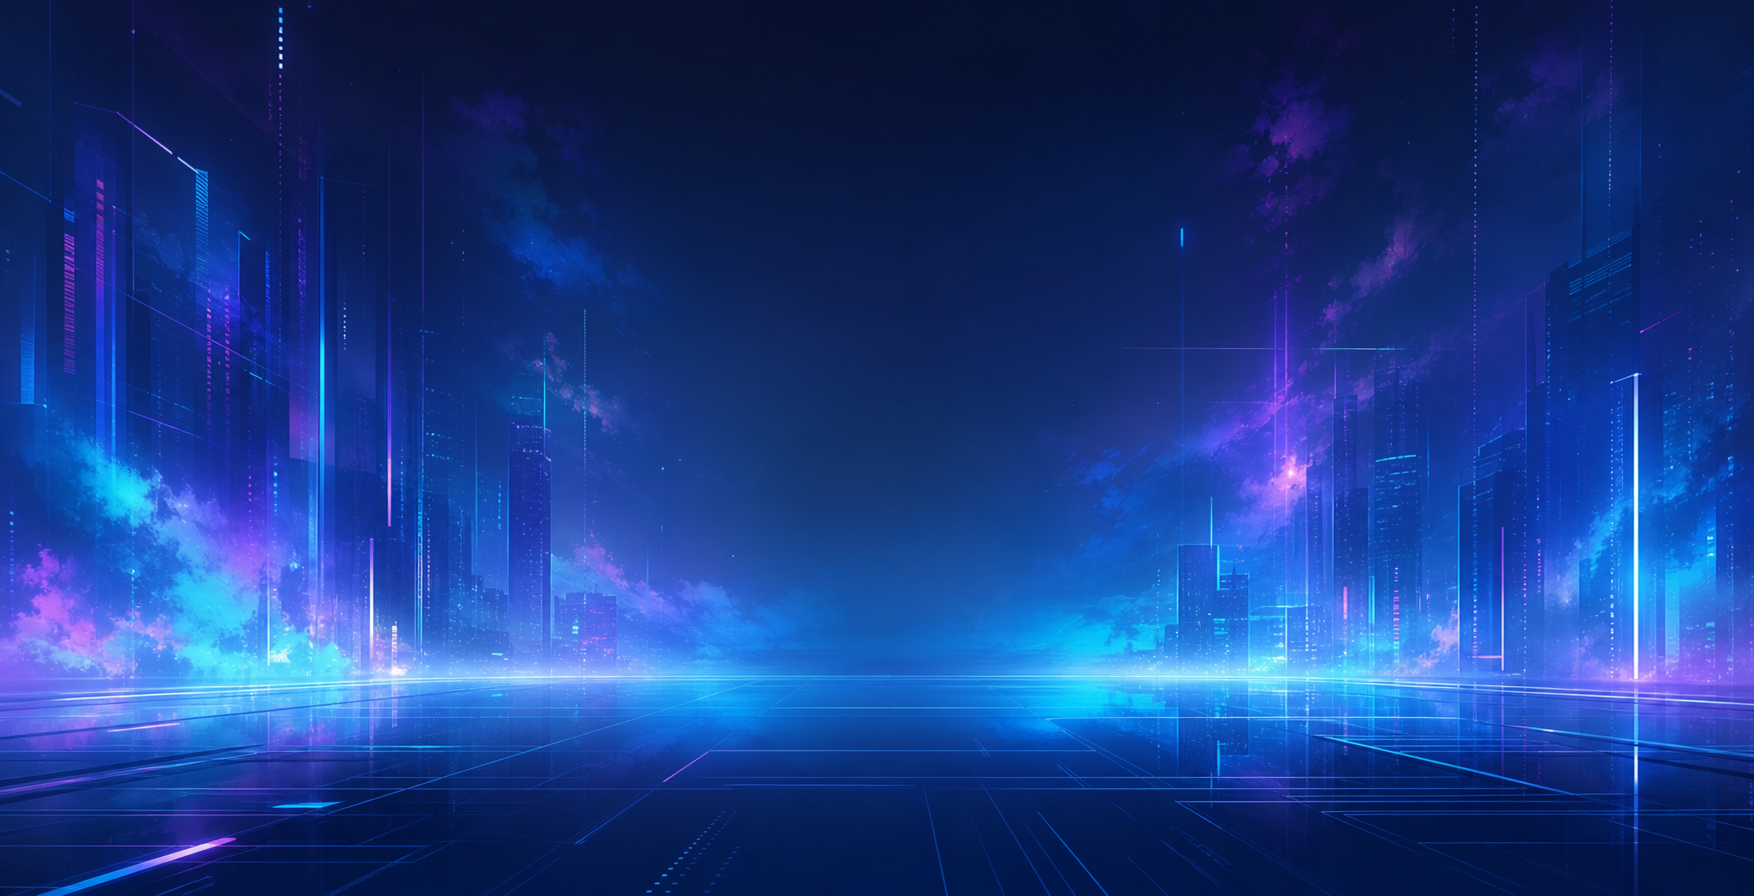
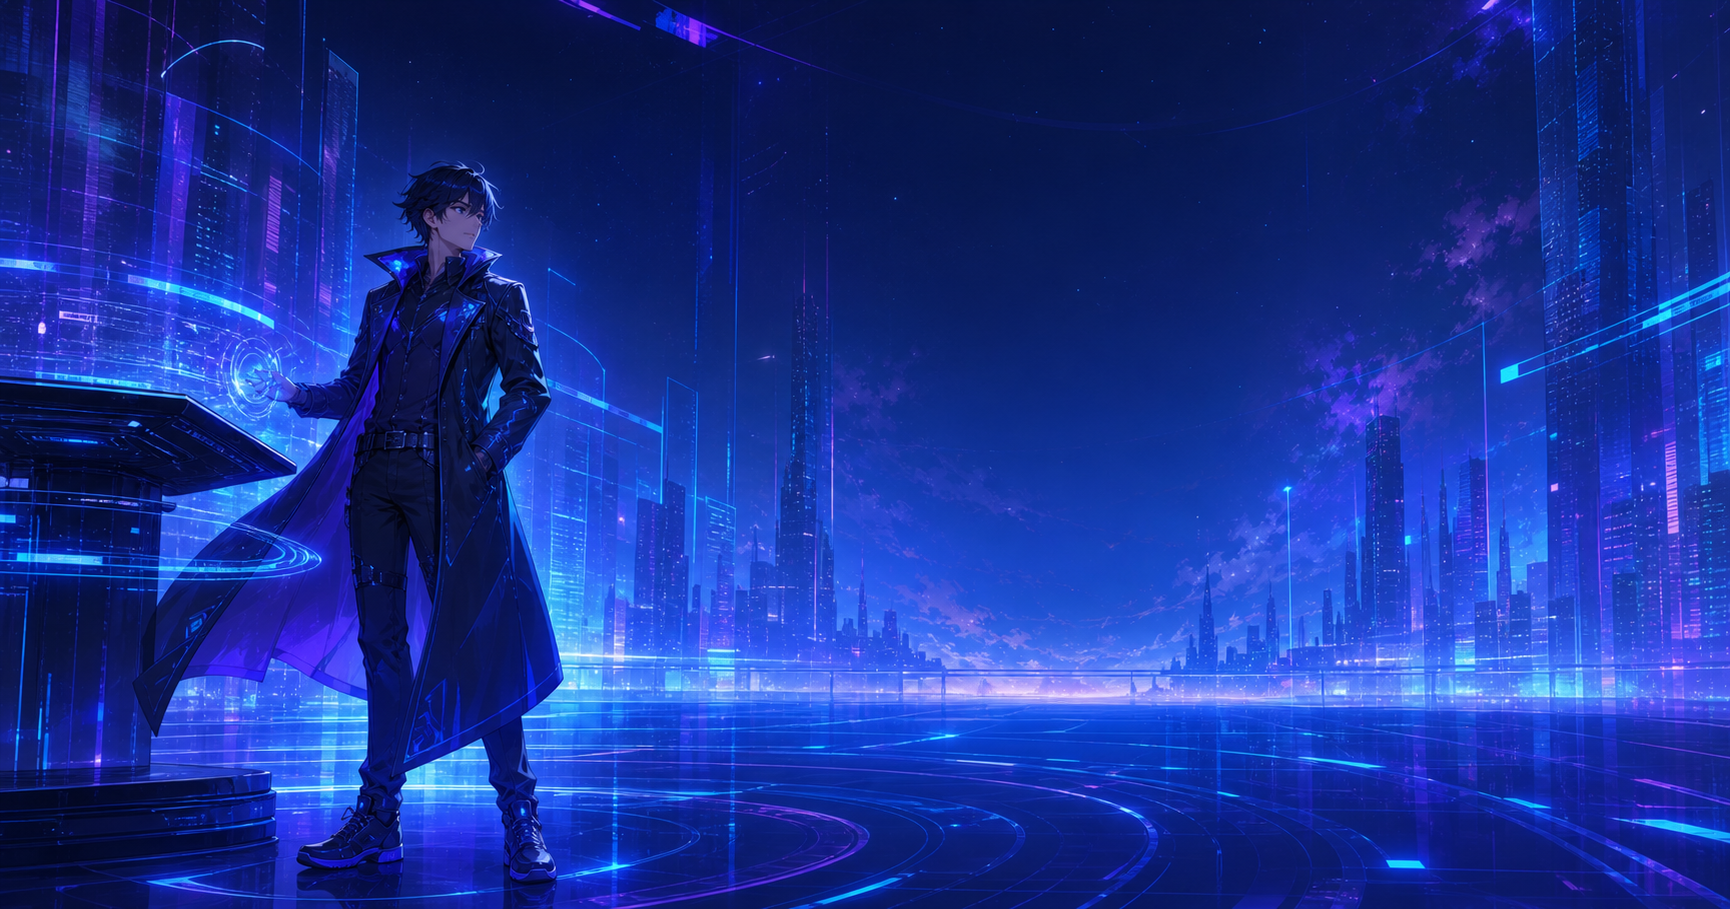
feat(hero): intensify deck visuals

diff --git a/src/index.css b/src/index.css
@@ -27,7 +27,6 @@
   --radius-soft: 0.75rem;
   --radius-pill: 9999px;
   --max-page-width: 72rem;
-  --hero-page-width: 90rem;
   --page-gutter: 1rem;
   --nav-height: 5rem;
   --grid-size: 56px;
@@ -319,9 +318,7 @@ a {
     position: relative;
     isolation: isolate;
     grid-template-columns: minmax(0, 1fr);
-    max-width: min(var(--hero-page-width), 100%);
     min-height: calc(100svh - var(--nav-height));
-    padding-inline: clamp(1rem, 2.5vw, 3rem);
   }
 
   .hero-copy {
@@ -345,42 +342,74 @@ a {
     overflow: hidden;
   }
 
+  .hero-decor::before,
+  .hero-decor::after {
+    content: "";
+    position: absolute;
+    pointer-events: none;
+    opacity: 0.46;
+  }
+
+  .hero-decor::before {
+    top: 5%;
+    right: -18%;
+    width: 45rem;
+    height: 24rem;
+    background:
+      radial-gradient(ellipse at 70% 40%, rgb(103 232 249 / 0.28), transparent 56%),
+      linear-gradient(112deg, transparent 15%, rgb(103 232 249 / 0.2) 42%, transparent 68%);
+    filter: blur(0.3rem);
+    transform: rotate(-10deg);
+  }
+
+  .hero-decor::after {
+    left: -16%;
+    bottom: -8%;
+    width: 42rem;
+    height: 24rem;
+    background:
+      radial-gradient(ellipse at 28% 56%, rgb(124 58 237 / 0.34), transparent 62%),
+      linear-gradient(28deg, transparent 18%, rgb(196 181 253 / 0.2) 46%, transparent 70%);
+    filter: blur(0.45rem);
+    transform: rotate(8deg);
+  }
+
   .hero-decor-glow {
     position: absolute;
     border-radius: var(--radius-pill);
-    opacity: 0.18;
-    filter: blur(2rem);
+    opacity: 0.42;
+    filter: blur(2.25rem);
     transform: translate3d(0, 0, 0);
   }
 
   .hero-decor-glow-left {
-    left: max(-24rem, -26vw);
-    bottom: 8%;
-    width: 20rem;
-    height: 20rem;
-    background: radial-gradient(circle, rgb(34 211 238 / 0.42), transparent 66%);
+    left: max(-16rem, -18vw);
+    bottom: 2%;
+    width: 28rem;
+    height: 28rem;
+    background: radial-gradient(circle, rgb(34 211 238 / 0.55), transparent 68%);
   }
 
   .hero-decor-glow-right {
-    top: 12%;
-    right: max(-25rem, -28vw);
-    width: 22rem;
-    height: 22rem;
-    background: radial-gradient(circle, rgb(124 58 237 / 0.34), transparent 68%);
+    top: 5%;
+    right: max(-17rem, -19vw);
+    width: 30rem;
+    height: 30rem;
+    background: radial-gradient(circle, rgb(124 58 237 / 0.48), transparent 70%);
   }
 
   .hero-decor-grid {
     position: absolute;
-    top: 8%;
-    left: max(-16rem, -18vw);
-    width: 14rem;
-    height: 13rem;
-    border: 1px solid rgb(103 232 249 / 0.06);
+    top: 6%;
+    left: max(-8rem, -10vw);
+    width: 18rem;
+    height: 15rem;
+    border: 1px solid rgb(103 232 249 / 0.14);
     border-radius: var(--radius-card);
-    opacity: 0.26;
+    opacity: 0.5;
     background-image:
-      linear-gradient(rgb(103 232 249 / 0.07) 1px, transparent 1px),
-      linear-gradient(90deg, rgb(103 232 249 / 0.07) 1px, transparent 1px);
+      linear-gradient(rgb(103 232 249 / 0.12) 1px, transparent 1px),
+      linear-gradient(90deg, rgb(103 232 249 / 0.12) 1px, transparent 1px);
     background-size: 1.4rem 1.4rem;
     mask-image: linear-gradient(
       135deg,
@@ -394,47 +423,50 @@ a {
 
   .hero-decor-line {
     position: absolute;
-    height: 1px;
-    opacity: 0.24;
+    height: 2px;
+    opacity: 0.58;
     background: linear-gradient(
       90deg,
       transparent,
-      rgb(103 232 249 / 0.24),
-      rgb(196 181 253 / 0.16),
+      rgb(103 232 249 / 0.58),
+      rgb(196 181 253 / 0.42),
       transparent
     );
+    box-shadow: 0 0 18px rgb(103 232 249 / 0.24);
   }
 
   .hero-decor-line-a {
-    top: 12%;
-    right: 20%;
-    width: 9rem;
-    transform: rotate(-14deg);
+    top: 11%;
+    right: 10%;
+    width: 15rem;
+    transform: rotate(-15deg);
   }
 
   .hero-decor-line-b {
-    left: 0;
-    bottom: 6%;
-    width: 7rem;
+    left: -1rem;
+    bottom: 12%;
+    width: 12rem;
     transform: rotate(18deg);
   }
 
   .hero-decor-line-c {
-    right: -0.5rem;
-    bottom: 6%;
-    width: 8.5rem;
+    right: -1rem;
+    bottom: 18%;
+    width: 13rem;
     transform: rotate(-24deg);
   }
 
   .hero-decor-dot {
     position: absolute;
-    width: 0.28rem;
-    height: 0.28rem;
-    border: 1px solid rgb(207 250 254 / 0.36);
+    width: 0.42rem;
+    height: 0.42rem;
+    border: 1px solid rgb(207 250 254 / 0.58);
     border-radius: var(--radius-pill);
-    background: rgb(103 232 249 / 0.34);
-    box-shadow: 0 0 10px rgb(103 232 249 / 0.2);
-    opacity: 0.56;
+    background: rgb(103 232 249 / 0.62);
+    box-shadow:
+      0 0 12px rgb(103 232 249 / 0.48),
+      0 0 28px rgb(124 58 237 / 0.18);
+    opacity: 0.78;
     animation: hero-signal-drift 7s ease-in-out infinite;
   }
 
@@ -464,16 +496,17 @@ a {
   .hero-decor-dot-e {
     top: 10%;
     left: 49%;
-    opacity: 0.42;
+    opacity: 0.62;
     animation-delay: -5.3s;
   }
 
   .hero-decor-mark {
     position: absolute;
-    width: 1.25rem;
-    height: 1.25rem;
-    opacity: 0.18;
+    width: 1.65rem;
+    height: 1.65rem;
+    opacity: 0.46;
     border-color: rgb(207 250 254 / 0.7);
+    filter: drop-shadow(0 0 12px rgb(103 232 249 / 0.32));
     transform: rotate(12deg);
   }
 
@@ -1338,10 +1371,10 @@ a {
     overflow: hidden;
     border: 1px solid rgb(103 232 249 / 0.13);
     border-radius: var(--radius-card);
-    background: rgb(2 6 23 / 0.72);
+    background: rgb(2 6 23 / 0.54);
     box-shadow:
       inset 0 1px 0 rgb(255 255 255 / 0.06),
-      inset 0 0 42px rgb(2 6 23 / 0.38);
+      inset 0 0 34px rgb(2 6 23 / 0.28);
   }
 
   .console-display::before,
@@ -1357,15 +1390,16 @@ a {
     background-image: url("/images/control-deck-bg.png");
     background-position: center;
     background-size: cover;
-    transform: scale(1.02);
+    filter: saturate(1.12) brightness(1.08) contrast(1.04);
+    transform: scale(1.015);
   }
 
   .console-display::after {
     z-index: 1;
     background:
-      radial-gradient(circle at 28% 24%, rgb(103 232 249 / 0.16), transparent 34%),
-      linear-gradient(180deg, rgb(2 6 23 / 0.42), rgb(2 6 23 / 0.78)),
-      linear-gradient(90deg, rgb(2 6 23 / 0.72), transparent 42%, rgb(2 6 23 / 0.66));
+      radial-gradient(circle at 26% 28%, rgb(103 232 249 / 0.12), transparent 34%),
+      linear-gradient(180deg, rgb(2 6 23 / 0.18), rgb(2 6 23 / 0.54)),
+      linear-gradient(90deg, rgb(2 6 23 / 0.42), transparent 45%, rgb(2 6 23 / 0.38));
   }
 
   .console-grid-lines {
@@ -1373,7 +1407,7 @@ a {
     position: absolute;
     inset: 0;
     z-index: 2;
-    opacity: 0.26;
+    opacity: 0.18;
     background-image:
       linear-gradient(rgb(103 232 249 / 0.08) 1px, transparent 1px),
       linear-gradient(90deg, rgb(103 232 249 / 0.08) 1px, transparent 1px),
@@ -1816,38 +1850,21 @@ a {
 
   @media (min-width: 1024px) {
     .hero-section {
-      grid-template-columns: minmax(0, 1fr) minmax(24rem, 0.92fr);
-      gap: clamp(4.5rem, 7vw, 7rem);
+      grid-template-columns: minmax(0, 1.05fr) minmax(22rem, 0.95fr);
+      gap: 3.5rem;
     }
 
     .hero-copy {
-      max-width: 43rem;
-      justify-self: start;
+      max-width: none;
     }
 
     .hero-visual {
-      justify-self: end;
-      max-width: 39rem;
+      max-width: none;
       margin-inline: 0;
     }
 
     .page-section {
       padding-block: 6rem;
-    }
-  }
-
-  @media (min-width: 1280px) {
-    .hero-section {
-      gap: clamp(5.5rem, 7vw, 8rem);
-    }
-
-    .hero-visual {
-      max-width: 40rem;
-    }
-
-    .hero-console {
-      transform: translateX(min(1.5rem, 2vw)) scale(1.03);
-      transform-origin: center right;
     }
   }
 
